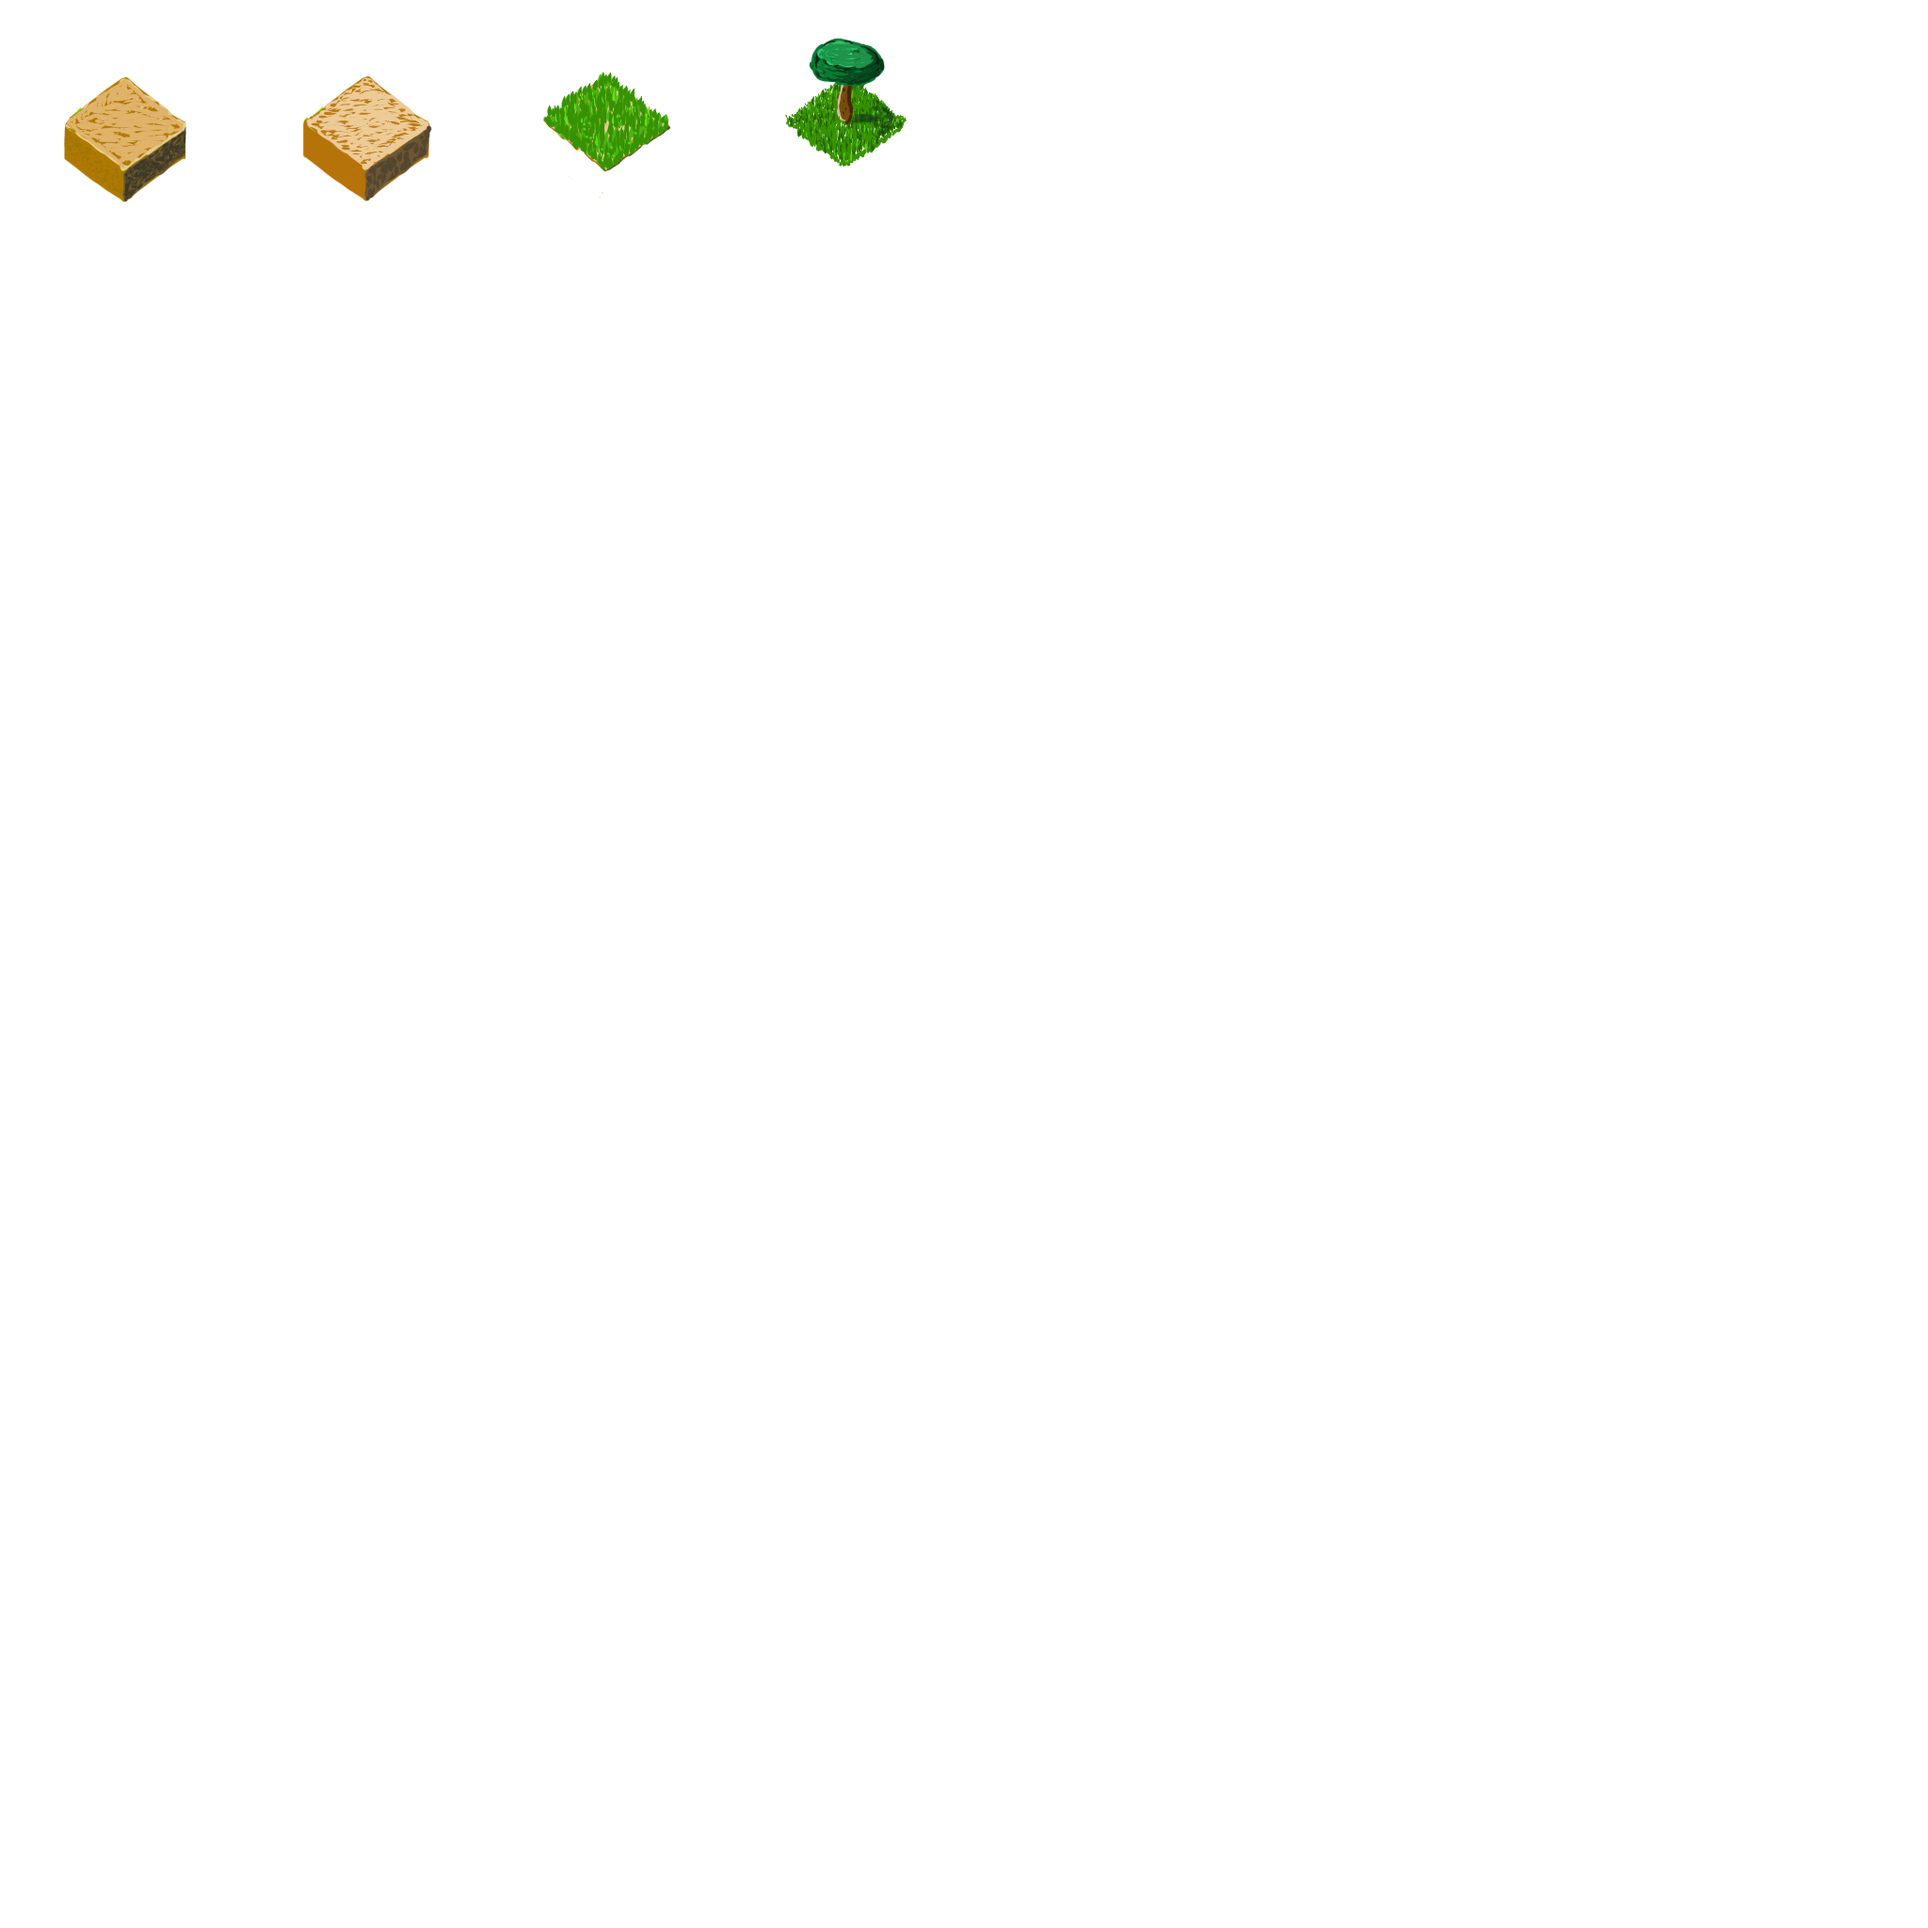
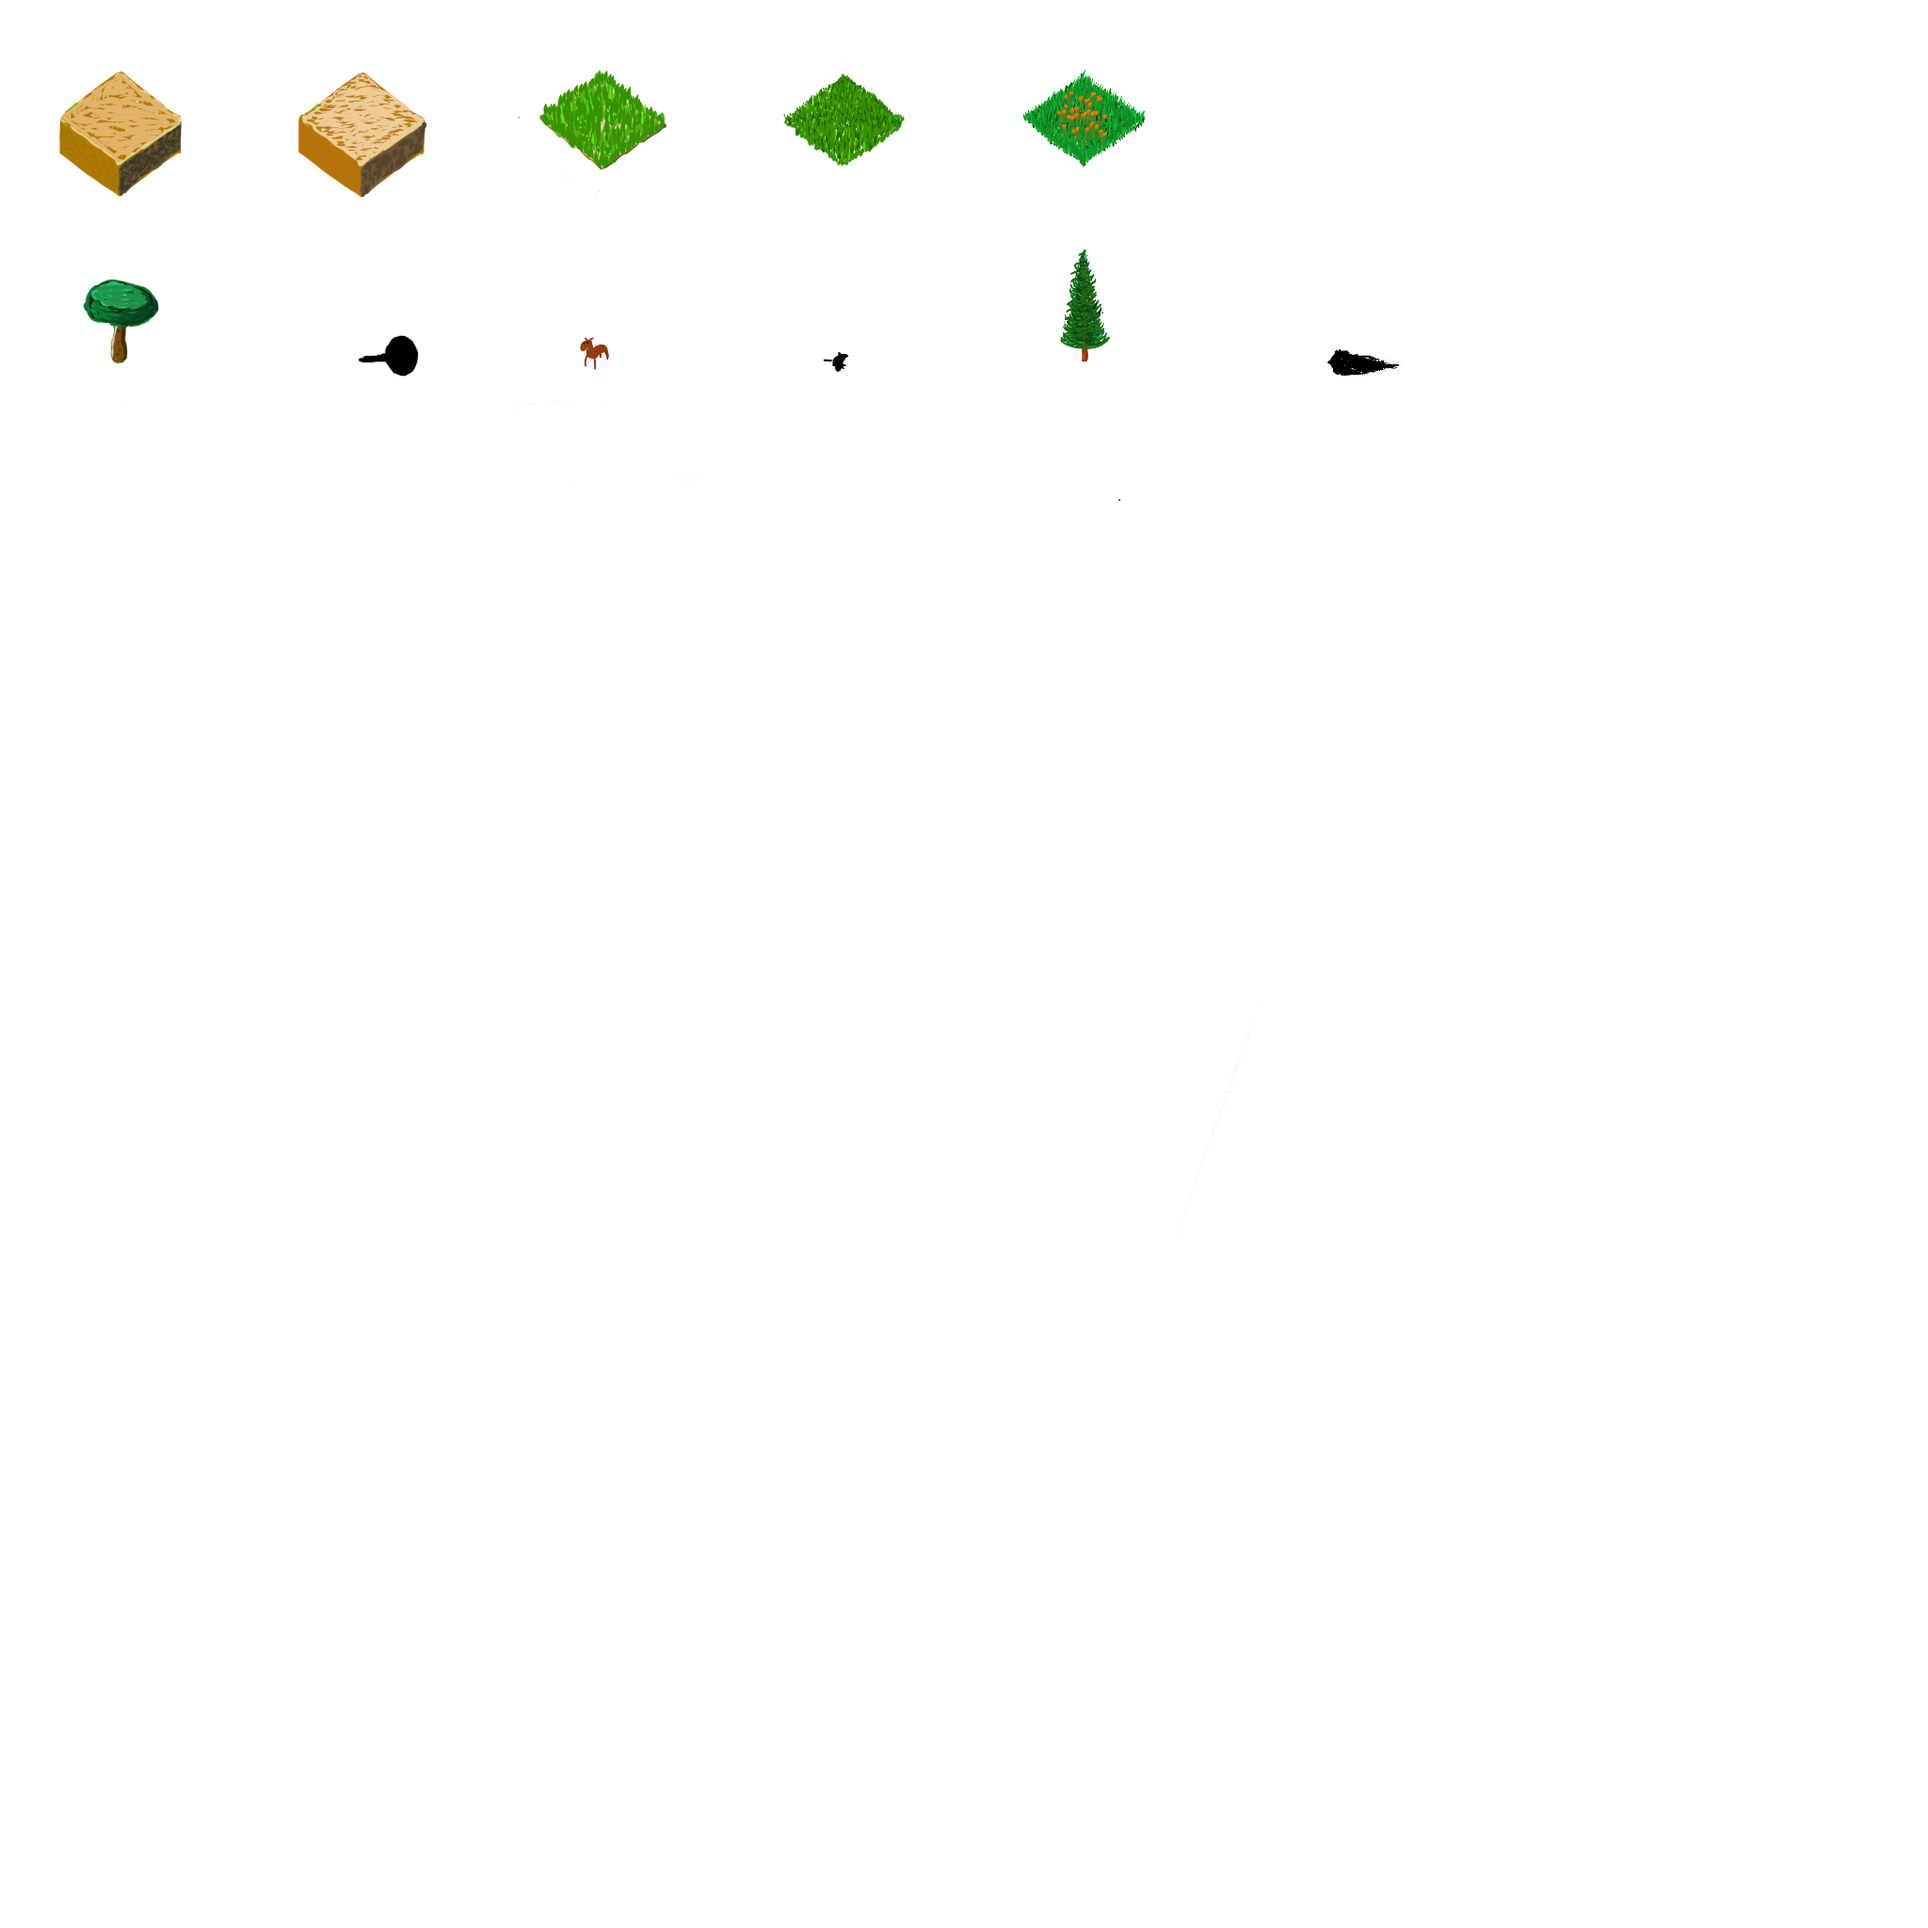
moving around draw functions

diff --git a/glinda/glinda.js b/glinda/glinda.js
@@ -1,4 +1,5 @@
 import World from './world.js';
+import Sprite from './sprite.js';
 
 export default class Glinda {
   constructor(context) {
@@ -17,13 +18,8 @@ export default class Glinda {
     };
     this.time = 0;
 
-    // Load the image
-    this.tiles = new Image();
-    this.tiles.src = 'glinda_tile_00.png';
-    this.tiles.onload = () => {
-      console.log('Image loaded');
-    };
-
+    this.loaded = false;
+    this._loadStuff();
     this.world = new World(this);
 
     this.positionCamera();
@@ -35,13 +31,17 @@ export default class Glinda {
 
   render(dt) {
     this.positionCamera();
-
+    this.time += dt;
     const canvas = this.context.canvas;
+
+    if (!this.loaded) { return; }
+
     this._junkMakeWorld();
 
+    this.world.draw_world();
     this.world.sorted.forEach((key) => {
       const tile = this.world.map.get(key);
-      this.drawTile(tile, tile.map);
+      //this.drawTile(tile, tile.map);
     });
 
     let remove = new Set();
@@ -55,9 +55,30 @@ export default class Glinda {
     }
     this.world.sort();
 
-    this.time += dt;
-
     //this._debugShowMarkers();
+  }
+
+  _loadStuff() {
+    // Load the image
+    this.tiles = new Image();
+    this.tiles.src = 'glinda_tile_00.png';
+    this.tiles.onload = () => {
+      console.log('Image loaded');
+
+      fetch('glinda_tile_00.json')
+      .then(response => response.json())
+      .then(data => {
+        this.json = data;
+        console.log('JSON loaded');
+
+        this.tree = new Sprite(this.tiles, [1024, 256], [256, 256], [128, 128]);
+
+        this.loaded = true;
+      })
+      .catch(error => {
+        console.error('Error loading JSON:', error);
+      });
+    };
   }
 
   _debugShowMarkers() {
@@ -99,7 +120,7 @@ export default class Glinda {
 
   positionCamera() {
     let phase = (2 * Math.PI * this.time) / 30;
-    let distance = 1.0 + 0.5 * Math.sin(phase);
+    let distance = 2.5 + 2.0 * Math.sin(phase);
     let scale = 1 / distance;
     this.camera.scale = scale;
     this.camera.center = [128*4, 96*4];
@@ -162,17 +183,15 @@ export default class Glinda {
       const color = tile.color || 'magenta';
       this.context.fillStyle = color;
 
-      let image = (this.tiles.complete && tile.source !== undefined);
+      var srcX = tile.source * 256;
+      var srcY = 0;
+      var destX = 0 - 64;
+      var destY = -128+96 - 48;
+      var w = 256;
+      var h = 256;
+      this.context.drawImage(this.tiles, srcX, srcY, w, h, destX, destY, w, h);
 
-      if (image) {
-        var srcX = tile.source * 256;
-        var srcY = 0;
-        var destX = 0 - 64;
-        var destY = -128+96 - 48;
-        var w = 256;
-        var h = 256;
-        this.context.drawImage(this.tiles, srcX, srcY, w, h, destX, destY, w, h);
-      } else {
+      if (false) {
         this.context.beginPath();
         // draw diamond, from left, to top, to right, to bottom, and back
         this.context.moveTo(0, this.halfH);
@@ -182,8 +201,9 @@ export default class Glinda {
         this.context.closePath();
         this.context.fill();
       }
-    }
-    );
+    });
+
+    this.tree.draw(this.context, [c[0] -0, c[1] -0]);
   }
 
   debugDrawAxis(position, size) {

diff --git a/glinda/world.js b/glinda/world.js
@@ -1,3 +1,5 @@
+import Sprite from './sprite.js';
+
 export default class World {
   constructor(glinda) {
     this.glinda = glinda;
@@ -36,6 +38,63 @@ export default class World {
     }
   }
 
+  drawAt(c, callback) {
+    const prevTransform = this.glinda.context.getTransform();
+    this.glinda.context.translate(c[0], c[1]);
+    callback();
+    this.glinda.context.setTransform(prevTransform);
+  }
+
+  draw_world() {
+    this.sort();
+
+  //});
+
+    this._draw_ground(0);
+    this._draw_ground(1);
+    this._draw_ground(2, 0.2);
+    this._draw_billboard(3);
+  }
+
+  _draw_ground(index, alpha = 1.0) {
+    this.sorted.forEach((key) => {
+      const tile = this.map.get(key);
+      const c = this.glinda.gridToCanvas(this.glinda.mapToGrid(tile.map));
+      //this.drawAt([c[0] - this.glinda.halfW, c[1] - this.glinda.halfH], () => {
+        let layer = tile.layer[index];
+        if (layer && layer.source !== undefined) {
+          var srcX = layer.source * 256;
+          var srcY = 0;
+          var destX = c[0] - this.glinda.halfW + 0 - 64;
+          var destY = c[1] - this.glinda.halfH + -128+96 - 48;
+          var w = 256;
+          var h = 256;
+          this.glinda.context.drawImage(this.glinda.tiles, srcX, srcY, w, h, destX, destY, w, h);
+        }
+    });
+  }
+
+  _draw_billboard(index) {
+    this.sorted.forEach((key) => {
+      const tile = this.map.get(key);
+      const c = this.glinda.gridToCanvas(this.glinda.mapToGrid(tile.map));
+      //this.drawAt([c[0] - this.glinda.halfW, c[1] - this.glinda.halfH], () => {
+        let layer = tile.layer[index];
+        if (layer && layer.source !== undefined) {
+          var srcX = layer.source * 256;
+          var srcY = 0;
+          var destX = c[0] - this.glinda.halfW + 0 - 64;
+          var destY = c[1] - this.glinda.halfH + -128+96 - 48;
+          var w = 256;
+          var h = 256;
+          this.glinda.context.drawImage(this.glinda.tiles, srcX, srcY, w, h, destX, destY, w, h);
+        }
+        if (layer && layer.sprite) {
+          layer.sprite.draw(this.glinda.context, [c[0] -0, c[1] -0]);
+        }
+    });
+  }
+
   _toKey(x, y) {
     return `${x},${y}`;
   }
@@ -52,6 +111,20 @@ export default class World {
     }
     else {
       tile.source = rand(2) + 2;
+    }
+    tile.layer = [];
+    tile.layer[0] = {
+      source: rand(2),
+    };
+    if (rand(3) === 0) {
+      tile.layer[1] = {
+        source: rand(3) + 2
+      };
+    }
+    if (rand(4) === 0) {
+      tile.layer[3] = {
+        sprite: new Sprite(this.glinda.tiles, [1024 * rand(2), 256], [256, 256], [128, 128]),
+      };
     }
     return tile;
   }

diff --git a/glinda/sprite.js b/glinda/sprite.js
@@ -1,0 +1,25 @@
+export default class Sprite {
+  constructor(image, source, size, anchor) {
+    this.image = image;
+    this.source = source; // [x, y]
+    this.size = size; // [width, height]
+    this.anchor = anchor; // [x, y]
+  }
+
+  draw(context, position) {
+    //this.source = [Math.random() * 2048, Math.random() * 2048];
+    //this.size = [Math.random() * 2048, Math.random() * 2048];
+    //position = [Math.random() * 20, Math.random() * 20];
+    context.drawImage(
+      this.image,
+      this.source[0],
+      this.source[1],
+      this.size[0],
+      this.size[1],
+      position[0] - this.anchor[0],
+      position[1] - this.anchor[1],
+      this.size[0],
+      this.size[1]
+    );
+  }
+}
